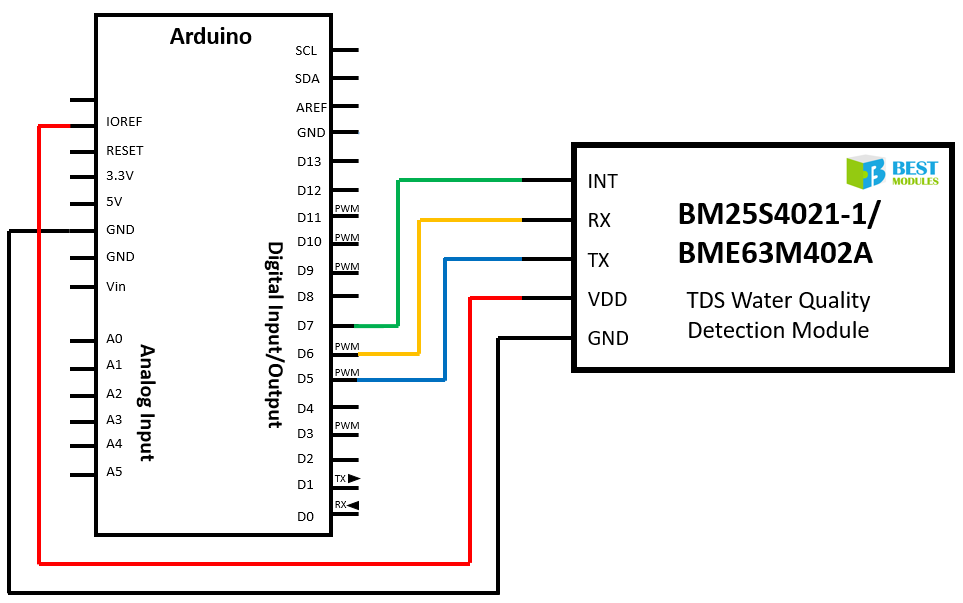
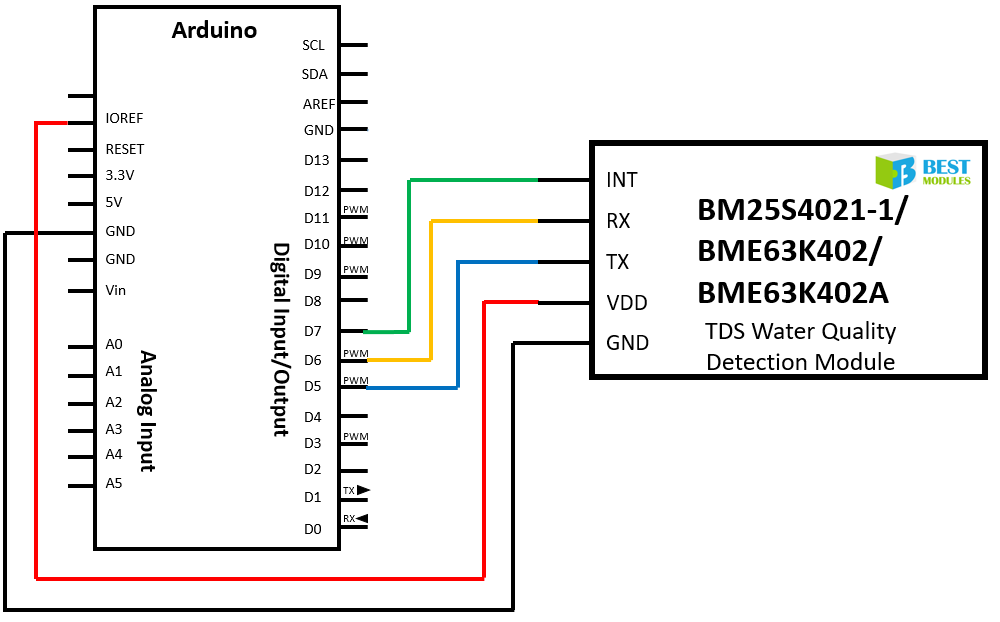
Add files via upload

Changed region(s): [[0.0, 0.0, 0.9969, 1.0]]

diff --git a/src/BM25S4021-1.cpp b/src/BM25S4021-1.cpp
@@ -5,7 +5,7 @@ Description:	Define classes and required variables if this class
 							has parameters,input parameters when this class defined
 							the class(this function) can call its mumbers in current
 							function,or by called outside else
-History:			V1.0.2   -- 2025-06-12
+History:			V1.0.3   -- 2025-06-13
 ******************************************************************/
 #include "BM25S4021-1.h"
 

diff --git a/src/BM25S4021-1.h b/src/BM25S4021-1.h
@@ -2,7 +2,7 @@
 File:					BM25S4021-1.h
 Author:				BEST MODULES CORP.
 Description:	Define classes and required variables
-History:			V1.0.2   -- 2025-06-12
+History:			V1.0.3   -- 2025-06-13
 ******************************************************************/
 #ifndef BM25S4021_1_h_
 #define BM25S4021_1_h_

diff --git a/README.md b/README.md
@@ -1,5 +1,5 @@
 <div align=center>
-<img src="https://github.com/BestModules-Libraries/img/blob/main/BM25S4021-1_BME63M402_BME63M402A_V1.0.png" width="562" height="480">
+<img src="https://github.com/BestModules-Libraries/img/blob/main/BM25S4021-1_BME63K402_BME63K402A_V1.0.png" width="562" height="480">
 
 </div>
 
@@ -14,8 +14,8 @@ The BM25S4021-1 is a TDS water quality detection module from BestModules, which 
 |Part No.   |Description                             |
 |:---------:|:--------------------------------------:|
 |BM25S4021-1 |TDS water quality detection module|
-|BME63M402   |adapter line and BM25S4021-1|
-|BME63M402A  |adapter line and BM25S4021-1|
+|BME63K402   |adapter line and BM25S4021-1|
+|BME63K402A  |adapter line and BM25S4021-1|
 
 </div>
 
@@ -44,7 +44,8 @@ Version History
 &emsp;&emsp;- Improve example:setAlarmValue.  
 &emsp;&emsp;- Change the function name readTemp(ID,channel) to readTemperature(ID,channel).  
 &emsp;&emsp;- Add function:selectModule(ID),readTDS(channel),readTemperature(channel).  
-
+* **V1.0.3**  
+&emsp;&emsp;- Change the BMduino module model name from BME63M402/BME63M402A to BME63K402/BME63K402A. 
 License Information
 -------------------
 
